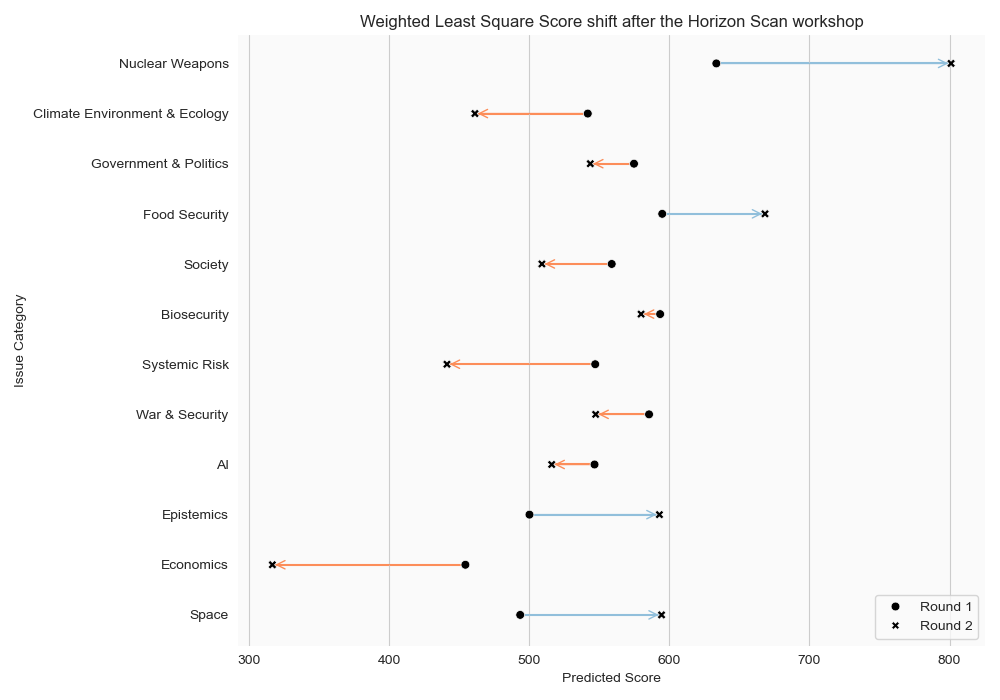
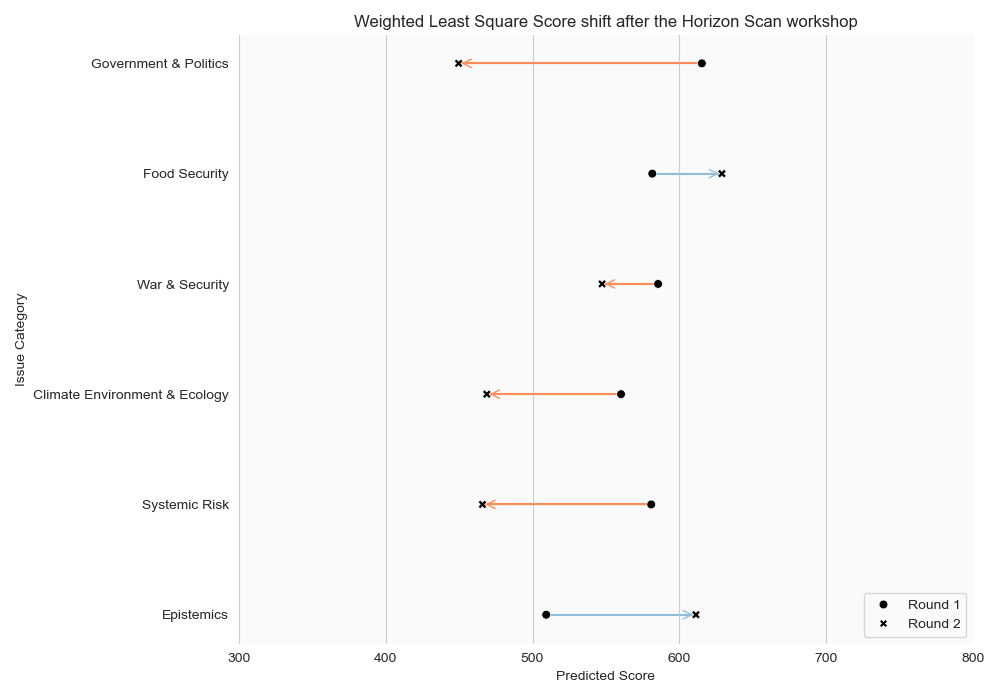
finished HS_analysis script and outputted plots

diff --git a/src/horizon_scan/HS_analysis.py b/src/horizon_scan/HS_analysis.py
@@ -6,7 +6,6 @@
 ############################
 
 import os
-import pathlib
 import matplotlib
 import argparse
 
@@ -17,9 +16,12 @@ import scipy as sp
 import seaborn as sns
 import matplotlib.pyplot as plt
 
-data_feature = pathlib.Path("../../data/04_feature")
-data_output = pathlib.Path("../../data/07_model_output")
-fig_output = pathlib.Path("../../docs/figures")
+from pathlib import Path
+from matplotlib.patches import FancyArrowPatch
+
+data_feature = Path("../../data/04_feature")
+data_output = Path("../../data/07_model_output")
+fig_output = Path("../../docs/figures")
 
 def parse_arguments():
     parser = argparse.ArgumentParser(description="Please input round 1 and round 2 HS results.")
@@ -30,7 +32,7 @@ def parse_arguments():
     parser.print_help()
     return parser.parse_args()
 
-def result_cleaning(r1_path:pathlib.Path, r2_path:pathlib.Path) -> pd.DataFrame:
+def result_cleaning(r1_path:Path, r2_path:Path) -> pd.DataFrame:
     with open(r1_path) as round_1:
         r1_df = pd.read_csv(round_1, sep = ",")
         r1_df.columns = [f"{col}_r1" if col not in ["Issue", "Issue_cat"] else col for col in r1_df.columns]
@@ -45,6 +47,144 @@ def result_cleaning(r1_path:pathlib.Path, r2_path:pathlib.Path) -> pd.DataFrame:
 
     return HS_combine
 
+def score_sample(df:pd.DataFrame) -> pd.DataFrame:
+    misc_cols = df.filter(regex="rank|score").columns
+    HS_justScore = df.drop(misc_cols, axis = 1)
+
+    return HS_justScore.sample(n = 8)
+
+def score_Ldf(df:pd.DataFrame) -> pd.DataFrame:
+    justScore_Ldf = pd.melt(df, id_vars=["Issue", "Issue_cat"], var_name='Participant', value_name='Score')
+    justScore_Ldf["HS_round"] = justScore_Ldf["Participant"].str.extract('(_r\d)').replace({'_r1': 1, '_r2': 2})
+    justScore_Ldf["Participant"] = justScore_Ldf["Participant"].str.replace('(_r\d)', '', regex=True)
+    print(justScore_Ldf.loc[:, ['Score', 'HS_round']].groupby('HS_round').describe())
+
+    return justScore_Ldf
+
+def plot_model(df:pd.DataFrame) -> (list, list):
+    sns.set_style('darkgrid', {'axes.facecolor': '.85'})
+
+    fig, ax = plt.subplots(6, 2, figsize=(15, 30))
+
+    axes = ax.flatten()
+
+    r1_exp = []
+    r2_exp = []
+
+
+    for idx, cat in enumerate(df['Issue_cat'].unique()):
+        palette_ls = ['Set3', 'Set2', 'Paired', 'Accent', 'Dark2', 'Set1',
+                    'Set2', 'Set3', 'tab10', 'tab20', 'tab20b', 'tab20c']
+        linestyle_ls = ['solid', 'dotted', 'dashed', 'dashdot', 'solid',
+                        'dotted', 'dashed', 'dashdot', 'solid', 'dotted',
+                        'dashed', 'dashdot']
+        colour_ls = ['black', 'red', 'gold', 'limegreen', 'cyan', 'indigo',
+                    'lightpink', 'black', 'red', 'gold', 'limegreen', 'cyan']
+
+        justScore_cat = df[df['Issue_cat'] == cat]
+
+        # Inverse WLS that uses variance as weights
+        y = justScore_cat['Score']
+        x = justScore_cat['HS_round']
+        X_sm = sm.add_constant(x)
+        variance = justScore_cat.groupby('HS_round')['Score'].var()
+        in_wt = justScore_cat['HS_round'].map(variance)
+
+        # Create model, fit, and print results
+        inv_WLS = sm.WLS(y, X_sm, weights = in_wt)
+        res_inv = inv_WLS.fit()
+        inv_ypred = res_inv.predict()
+        print("\nModified WLS results")
+        print(res_inv.summary())
+
+        # Fill DataFrame
+        r1_exp.append(inv_ypred[0])
+        r2_exp.append(inv_ypred[-1])
+        
+        splot = sns.scatterplot(justScore_cat, x='HS_round', y='Score',
+                                hue='Issue', ax=axes[idx], palette=palette_ls[idx])
+        WLSplot = sns.lineplot(justScore_cat, x='HS_round', y=inv_ypred,
+                            ax=axes[idx], linestyle=linestyle_ls[idx], color=colour_ls[idx],
+                            label=f"modified_WLS: y = {res_inv.params[1]:.2f}X + {res_inv.params[0]:.2f}'")
+
+        axes[idx].set_title(f"Issue Category: {cat}")
+        axes[idx].set_xticks([1, 2])
+        axes[idx].set_ylim(1-1, 1000)
+
+        if idx % 2 == 0:
+            # Left side subplots
+            axes[idx].legend(bbox_to_anchor = (-0.1, 1), ncol=1)
+        else:
+            # Right side subplots
+            axes[idx].legend(bbox_to_anchor=(1, 1), ncol=1)
+
+    plt.tight_layout()
+    plt.savefig(f"{fig_output}/WLSissueCat_subplots.png")
+    plt.show()
+
+    return r1_exp, r2_exp
+
+
+def WLS_expected_score(df:pd.DataFrame, r1_exp:list, r2_exp:list) -> pd.DataFrame:
+    # DataFrame to collect inv_WLS ypred expected values
+    WLS_expDF = pd.DataFrame({
+        "Issue_cat": df["Issue_cat"].unique(),
+        "round_1": r1_exp,
+        "round_2": r2_exp
+    })
+
+    WLS_expDF_L = pd.melt(WLS_expDF, id_vars="Issue_cat", value_vars=["round_1", "round_2"], var_name="HS_round", value_name="Expected_Score")
+
+    return WLS_expDF_L
+
+def lollipop(df:pd.DataFrame):
+    # Lollipop chart
+    sns.set_style('whitegrid', {'axes.facecolor': '0.98'})
+
+    fig, ax = plt.subplots(figsize = (10, 7))
+
+    #lolli = sns.scatterplot(WLS_expDF_L, x="Expected_Score", y="Issue_cat",
+    #                        hue="HS_round", palette="Set2")
+
+    for idx, cat in enumerate(df["Issue_cat"].unique()):
+        temp_df = df[df["Issue_cat"] == cat]
+
+        r1_score = temp_df[temp_df["HS_round"] == "round_1"]["Expected_Score"].values[0]
+        r2_score = temp_df[temp_df["HS_round"] == "round_2"]["Expected_Score"].values[0]
+
+        if r2_score > r1_score:
+            cane_col = "#91bfdb"
+            plt.gca().add_patch(FancyArrowPatch((r1_score, idx), (r2_score, idx),
+                                        arrowstyle='->', color='#91bfdb', mutation_scale=15))
+        else:
+            cane_col = "#fc8d59"        
+            plt.gca().add_patch(FancyArrowPatch((r2_score, idx), (r1_score, idx),
+                                        arrowstyle='<-', color='#fc8d59', mutation_scale=15))
+
+
+        sns.lineplot(temp_df, x="Expected_Score", y="Issue_cat",
+                    color=cane_col, zorder=0)
+
+    lolli = sns.scatterplot(df, x="Expected_Score", y="Issue_cat",
+                            color="#000000", palette="Set2", zorder=1,
+                            style="HS_round", s=40)
+
+
+    lolli.yaxis.grid(False)
+    handles, _ = lolli.get_legend_handles_labels()
+    new_handles = ['Round 1', 'Round 2']
+    lolli.legend(handles, new_handles, loc="lower right")
+    #lolli.set_xlim(1, 1000)
+    plt.xticks(list(range(300, 900, 100)))
+
+    sns.despine(left=True, bottom=True)
+    plt.ylabel("Issue Category")
+    plt.xlabel("Predicted Score")
+    plt.title("Weighted Least Square Score shift after the Horizon Scan workshop")
+
+    plt.tight_layout()
+    plt.savefig(f"{fig_output}/Deliberation_lolli.png")
+    plt.show()
 
 def main():
     # Read path into python file
@@ -54,7 +194,14 @@ def main():
 
     HS_combine = result_cleaning(r1_path, r2_path)
     print(HS_combine.sample(n=8))
+    HS_justScore = score_sample(HS_combine)
+    justScore_Ldf = score_Ldf(HS_justScore)
 
+    r1_exp, r2_exp=plot_model(justScore_Ldf)
+
+    WLS_expDF_L = WLS_expected_score(justScore_Ldf, r1_exp, r2_exp)
+
+    lollipop(WLS_expDF_L)
 
 
 if __name__ == "__main__":
